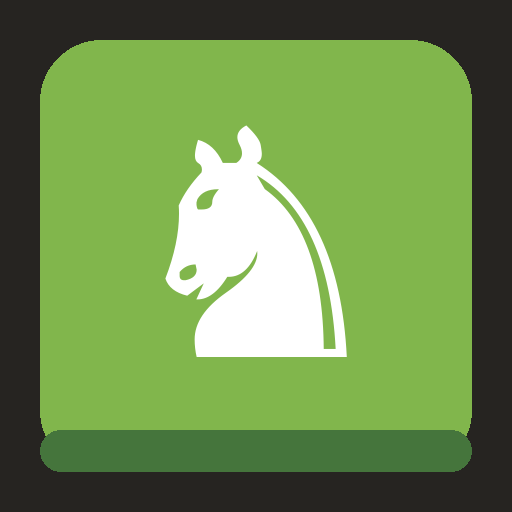
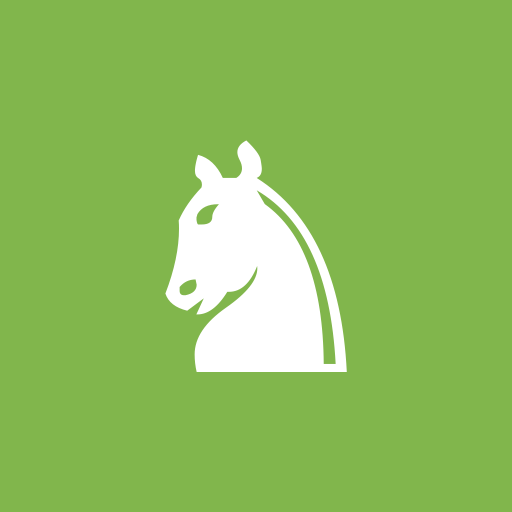
Add files via upload

diff --git a/index.html b/index.html
@@ -2,7 +2,7 @@
 <html lang="es">
 <head>
 <meta charset="utf-8">
-<meta name="viewport" content="width=device-width,initial-scale=1,viewport-fit=cover">
+<meta name="viewport" content="width=device-width,initial-scale=1,maximum-scale=1,user-scalable=no,viewport-fit=cover">
 <meta name="mobile-web-app-capable" content="yes">
 <link rel="manifest" href="manifest.webmanifest">
 <link rel="apple-touch-icon" href="apple-touch-icon.png">
@@ -25,7 +25,9 @@
   --pc:"Segoe UI Symbol","Noto Sans Symbols 2","Noto Sans Symbols","DejaVu Sans","Apple Symbols","Arial Unicode MS",sans-serif;
   color-scheme:dark;
 }
-html,body{height:100%}
+html,body{height:100%;touch-action:manipulation;-webkit-text-size-adjust:100%;overscroll-behavior-y:none}
+button,.sq,.board,.tools,.navbtns,.seg,.card{touch-action:manipulation;-webkit-user-select:none;user-select:none;-webkit-touch-callout:none}
+.seg.spd button{height:32px;font-size:13px}
 body{background:var(--bg);color:var(--fg);font-family:var(--ui);font-size:15px;-webkit-tap-highlight-color:transparent}
 *{box-sizing:border-box}
 button{font:inherit;color:inherit;cursor:pointer;border:0;background:none}
@@ -1488,7 +1490,28 @@ function ask(q) {
   });
 }
 const AN = { depth: 6, time: IS_MOBILE ? 550 : 750 };
-const DEEP = { depth: 9, time: IS_MOBILE ? 650 : 900 };
+const DEEP = { depth: 9, time: IS_MOBILE ? 600 : 800 };
+// motores extra en paralelo para el análisis final (usa varios núcleos del celular o la compu)
+const POOL_N = Math.max(1, Math.min(4, (navigator.hardwareConcurrency || 2) - 1));
+const pool = [];
+function makeWorker() {
+  try {
+    const src = document.getElementById('engine-src').textContent + '\nonmessage=e=>{let r=null;try{r=handleReq(e.data)}catch(err){r=null}postMessage({id:e.data.id,r})};';
+    const w = new Worker(URL.createObjectURL(new Blob([src], { type: 'text/javascript' })));
+    const W = { w, pend: {}, busy: 0, dead: false };
+    w.onmessage = e => { const f = W.pend[e.data.id]; delete W.pend[e.data.id]; W.busy--; f && f.res(e.data.r); };
+    w.onerror = () => { W.dead = true; for (const id in W.pend) { runLocal(W.pend[id].q, W.pend[id].res); } W.pend = {}; };
+    return W;
+  } catch (e) { return null; }
+}
+function askPool(q) {
+  if (!worker) return ask(q);
+  while (pool.length < POOL_N) { const W = makeWorker(); if (!W) break; pool.push(W); }
+  const live = pool.filter(W => !W.dead);
+  if (!live.length) return ask(q);
+  const W = live.reduce((a, b) => (b.busy < a.busy ? b : a));
+  return new Promise(res => { const id = ++reqId; W.pend[id] = { res, q }; W.busy++; W.w.postMessage(Object.assign({}, q, { id })); });
+}
 
 // ---------- estado ----------
 const S = {
@@ -1683,6 +1706,10 @@ board.addEventListener('pointerdown', e => {
   const s = +el.dataset.sq;
   if (e.button === 2) { S.rc = s; e.preventDefault(); return; }
   if (S.uarrows.length || S.marks.length) { S.uarrows = []; S.marks = []; renderBoard(); }
+  if (S.mode === 'game' && S.game && S.game.over && S.moves.length) {
+    const r = board.getBoundingClientRect(), right = e.clientX - r.left > r.width / 2;
+    stopAuto(); S.view = right ? Math.min(S.moves.length, S.view + 1) : Math.max(0, S.view - 1); S.arrows = []; render(); return;
+  }
   if (!canMove()) { if (S.view !== S.moves.length && ['game', 'opening', 'puzzle'].includes(S.mode)) { S.view = S.moves.length; S.arrows = []; render(); } return; }
   e.preventDefault();
   const p = S.c.b[s], mine = p && isW(p) === (S.c.turn === 'w');
@@ -1940,13 +1967,20 @@ async function finishGame(st) {
   const n = S.moves.length, deep = {};
   g.progress = { done: 0, total: n - g.startPly + 1 };
   renderPanel();
-  for (let k = g.startPly; k <= n; k++) {
-    let r = await ask({ mode: 'think', fen: S.start, moves: S.moves.slice(0, k), depth: DEEP.depth, time: DEEP.time });
-    if (S.game !== g || !g.over) return;
-    if (!r) r = await analysis(k);
-    deep[k] = r; g.progress.done++;
-    if (!g.review) renderPanel();
-  }
+  const todo = []; for (let k = g.startPly; k <= n; k++) todo.push(k);
+  let next = 0, aborted = false;
+  const lane = async () => {
+    while (next < todo.length && !aborted) {
+      const k = todo[next++];
+      let r = await askPool({ mode: 'think', fen: S.start, moves: S.moves.slice(0, k), depth: DEEP.depth, time: DEEP.time });
+      if (S.game !== g || !g.over) { aborted = true; return; }
+      if (!r) r = await analysis(k);
+      deep[k] = r; g.progress.done++;
+      if (!g.review) renderPanel();
+    }
+  };
+  await Promise.all(Array.from({ length: Math.max(1, POOL_N) }, lane));
+  if (aborted || S.game !== g || !g.over) return;
   for (let i = g.startPly; i < n; i++) {
     const A = deep[i], B = deep[i + 1]; if (!A || !B) continue;
     const book = !g.end && i < 20 && isBookLine(S.moves.slice(0, i + 1));
@@ -2226,7 +2260,7 @@ function stopAuto() { if (autoT) { clearInterval(autoT); autoT = null; } }
 function toggleAuto() {
   if (autoT) { stopAuto(); renderPanel(); return; }
   if (S.view >= S.moves.length) S.view = S.game.startPly;
-  autoT = setInterval(() => { if (!S.game || !S.game.review || S.view >= S.moves.length) { stopAuto(); renderPanel(); return; } S.view++; S.arrows = []; render(); }, 2600);
+  autoT = setInterval(() => { if (!S.game || !S.game.review || S.view >= S.moves.length) { stopAuto(); renderPanel(); return; } S.view++; S.arrows = []; render(); }, [2600, 1500, 800][P.revSpeed || 0]);
   S.view = Math.min(S.moves.length, S.view + 1); S.arrows = []; render();
 }
 function moveLabel(i) { const f = new Chess(S.fens[0]); const n = f.full + Math.floor((i + (f.turn === 'b' ? 1 : 0)) / 2); return new Chess(S.fens[i]).turn === 'w' ? `${n}.` : `${n}...`; }
@@ -2272,6 +2306,8 @@ function reviewPanel() {
       <button data-nav="next"><span class="i">▶</span>Adelante</button>
       <button data-nav="last"><span class="i">⏭</span>Final</button>
     </div>
+    <div class="seg spd">${['Lento', 'Normal', 'Rápido'].map((t, i) => `<button class="${(P.revSpeed || 0) === i ? 'on' : ''}" data-spd="${i}">${t}</button>`).join('')}</div>
+    <p class="muted" style="margin:0;font-size:12.5px">Tip: tocá la mitad derecha del tablero para avanzar y la izquierda para retroceder.</p>
     ${movesHTML()}
   </div><div class="pfoot"><button class="btn sm f1" data-act="review-end">Volver al resumen</button>${g.end ? '<button class="btn sm f1" data-act="restartEnd">Reintentar</button>' : g.imported ? '<button class="btn sm f1" data-act="menu">Salir</button>' : '<button class="btn sm f1" data-act="rematch">Revancha</button>'}</div>`;
 }
@@ -2413,6 +2449,7 @@ document.addEventListener('click', e => {
   const op = e.target.closest('[data-open]'); if (op) { startOpening(OPENINGS.find(o => o.id === op.dataset.open)); return; }
   const th = e.target.closest('[data-theme]'); if (th) { const t = TACTICS.find(x => x.id === th.dataset.theme); const s = P.tactics[t.id] || {}; const k = t.puzzles.findIndex((_, i) => !s[i]); startTheme(t, k < 0 ? 0 : k); return; }
   const en = e.target.closest('[data-end]'); if (en) { startEnd(ENDGAMES.find(x => x.id === en.dataset.end)); return; }
+  const sp = e.target.closest('[data-spd]'); if (sp) { P.revSpeed = +sp.dataset.spd; saveP(); if (autoT) { stopAuto(); toggleAuto(); } else renderPanel(); return; }
   const tcb = e.target.closest('[data-tc]'); if (tcb) { P.tc = tcb.dataset.tc; saveP(); renderPanel(); return; }
   const icb = e.target.closest('[data-impc]'); if (icb) { S.importText = ($('#pgn') || {}).value || S.importText; S.impColor = icb.dataset.impc; renderPanel(); return; }
   const hi = e.target.closest('[data-hist]'); if (hi) { const gg = P.games[+hi.dataset.hist]; if (gg && gg.mv) { const res = gg.res === 'D' ? '½-½' : (gg.res === 'W') === (gg.color === 'w') ? '1-0' : '0-1'; openReview({ start: gg.start || START_FEN, moves: gg.mv.split(' ').filter(Boolean), user: gg.color, opp: gg.bot, oppElo: gg.elo, result: res, reason: gg.reason, fromHistory: true }); } return; }

diff --git a/sw.js b/sw.js
@@ -1,6 +1,6 @@
 // Guarda la app para usarla sin internet. Con conexión siempre trae la versión más nueva.
-const CACHE = 'ajedrez-entrenador-v1';
-const FILES = ['./', './index.html', './manifest.webmanifest', './icon-192.png', './icon-512.png', './apple-touch-icon.png'];
+const CACHE = 'ajedrez-entrenador-v2';
+const FILES = ['./', './index.html', './manifest.webmanifest', './icon-192.png', './icon-512.png', './apple-touch-icon.png', './icon-maskable-192.png', './icon-maskable-512.png'];
 self.addEventListener('install', e => { e.waitUntil(caches.open(CACHE).then(c => c.addAll(FILES))); self.skipWaiting(); });
 self.addEventListener('activate', e => { e.waitUntil(caches.keys().then(ks => Promise.all(ks.filter(k => k !== CACHE).map(k => caches.delete(k))))); self.clients.claim(); });
 self.addEventListener('fetch', e => {
